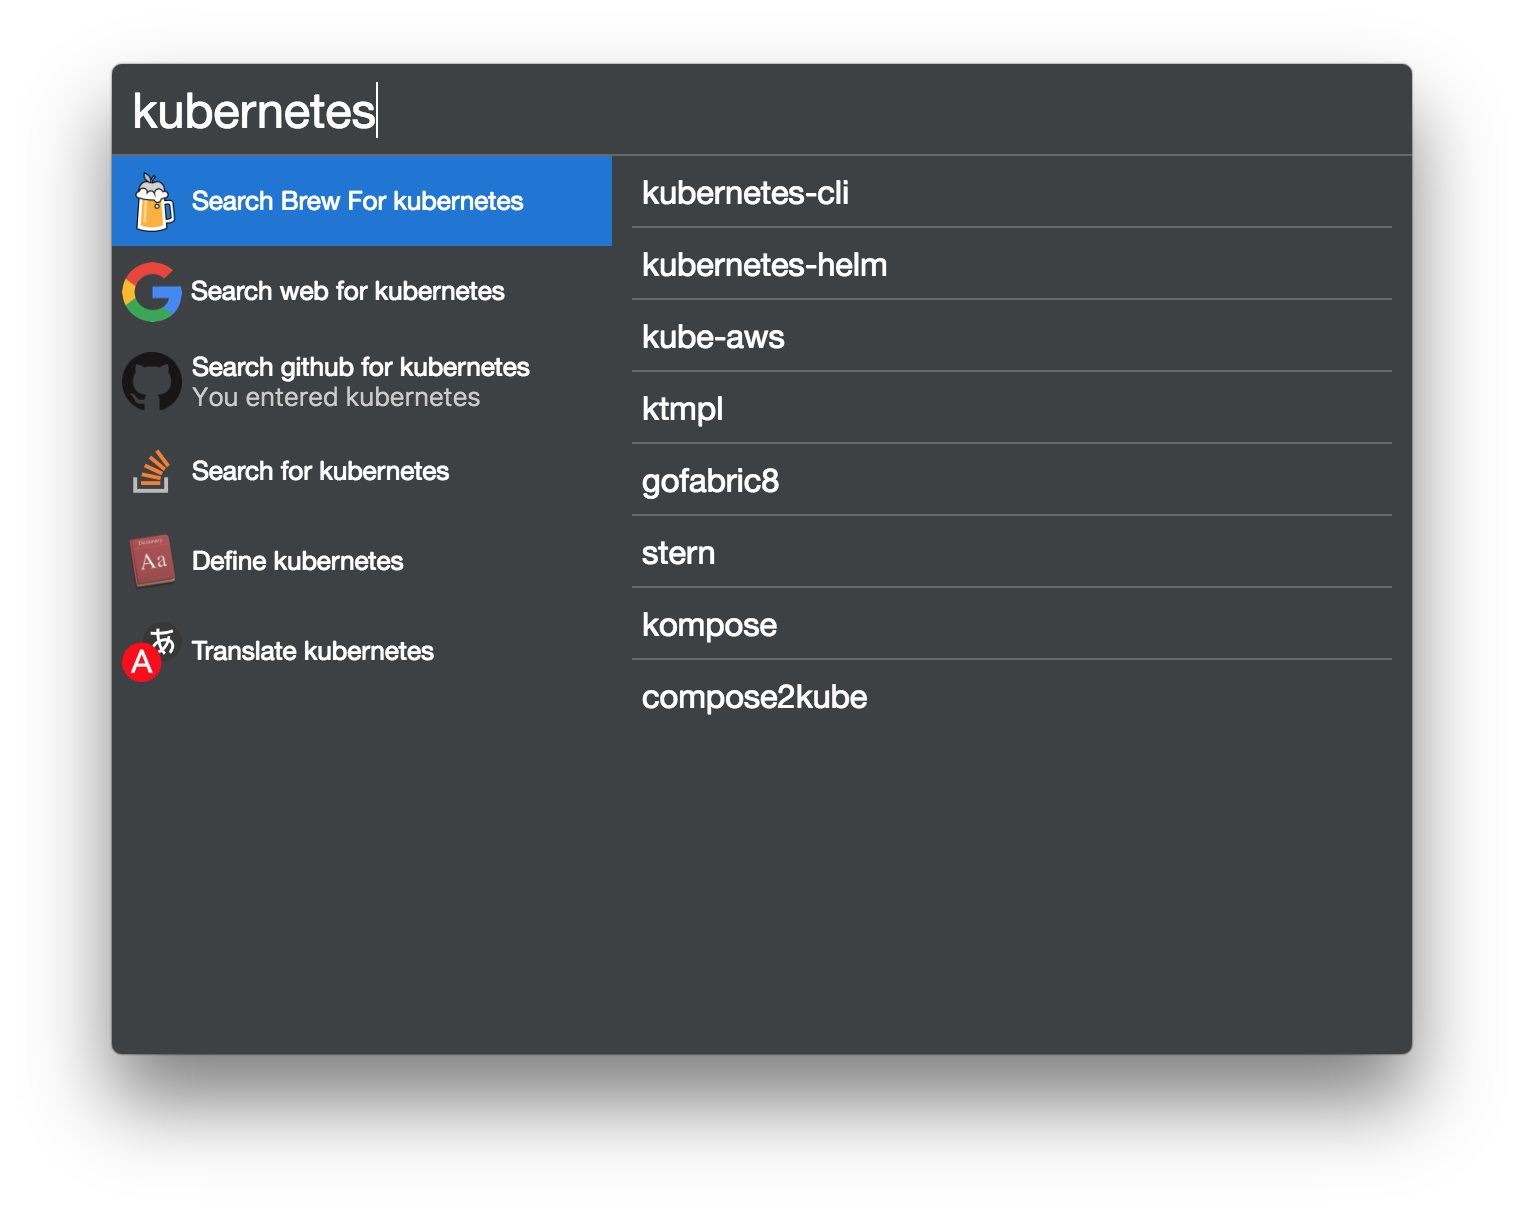
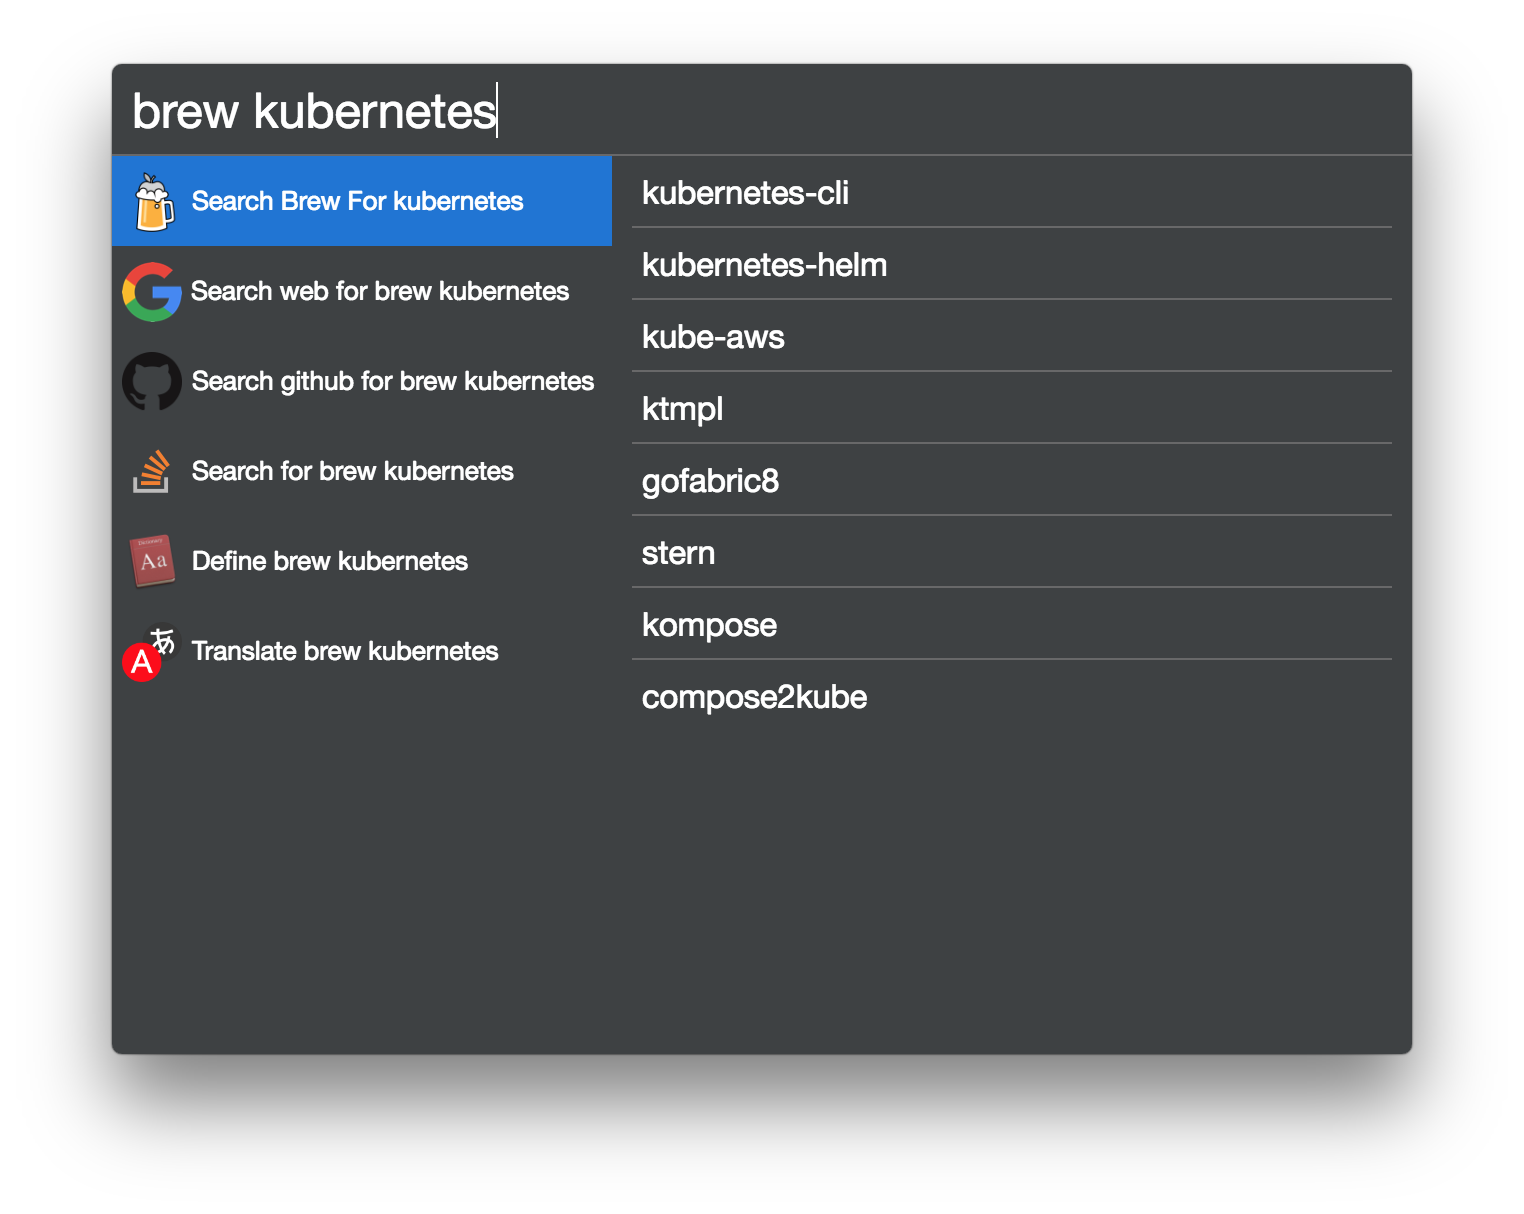
only triger the search if the keyword brew is provided

diff --git a/src/index.js b/src/index.js
@@ -22,7 +22,18 @@ function spawnchild(pkg, code) {
   });
 }
 
+const queryFromTerm = term => {
+  const match = term.match(/^brew (.+)$/);
+  return match ? match[1].trim() : null;
+};
+
 const plugin = ({ term, actions, display }) => {
+  const query = queryFromTerm(term);
+
+  if (!query) {
+    return null;
+  }
+
   var search = (searchTerm) => {
     const q = encodeURIComponent(searchTerm)
     actions.copyToClipboard(`brew install ${q}`)
@@ -33,10 +44,10 @@ const plugin = ({ term, actions, display }) => {
   display({
     icon: icon,
     order: order, // High priority
-    title: `Search Brew For ${term}`,
-    clipboard: `brew install ${term}`,
+    title: `Search Brew For ${query}`,
+    clipboard: `brew install ${query}`,
     onSelect: () => search(term),
-    getPreview: () => <Preview query={term} key={term} search={search} />
+    getPreview: () => <Preview query={query} key={query} search={search} />
   })
 }
 

diff --git a/Readme.md b/Readme.md
@@ -3,7 +3,7 @@
 > It is a plugin for [Cerebro app](http://www.cerebroapp.com) that searches for homebrew formulas using [searchbrew.com](http://searchbrew.com/)
 
 ## Usage
-In Cerebro, type any term, and the Homebrew plugin will show some suggestions:
+In Cerebro, type brew followed by any term, and the Homebrew plugin will show some suggestions:
 ![](screenshot.png)
 
 <kbd>Return</kbd> - Open a terminal window with the install command entered.
